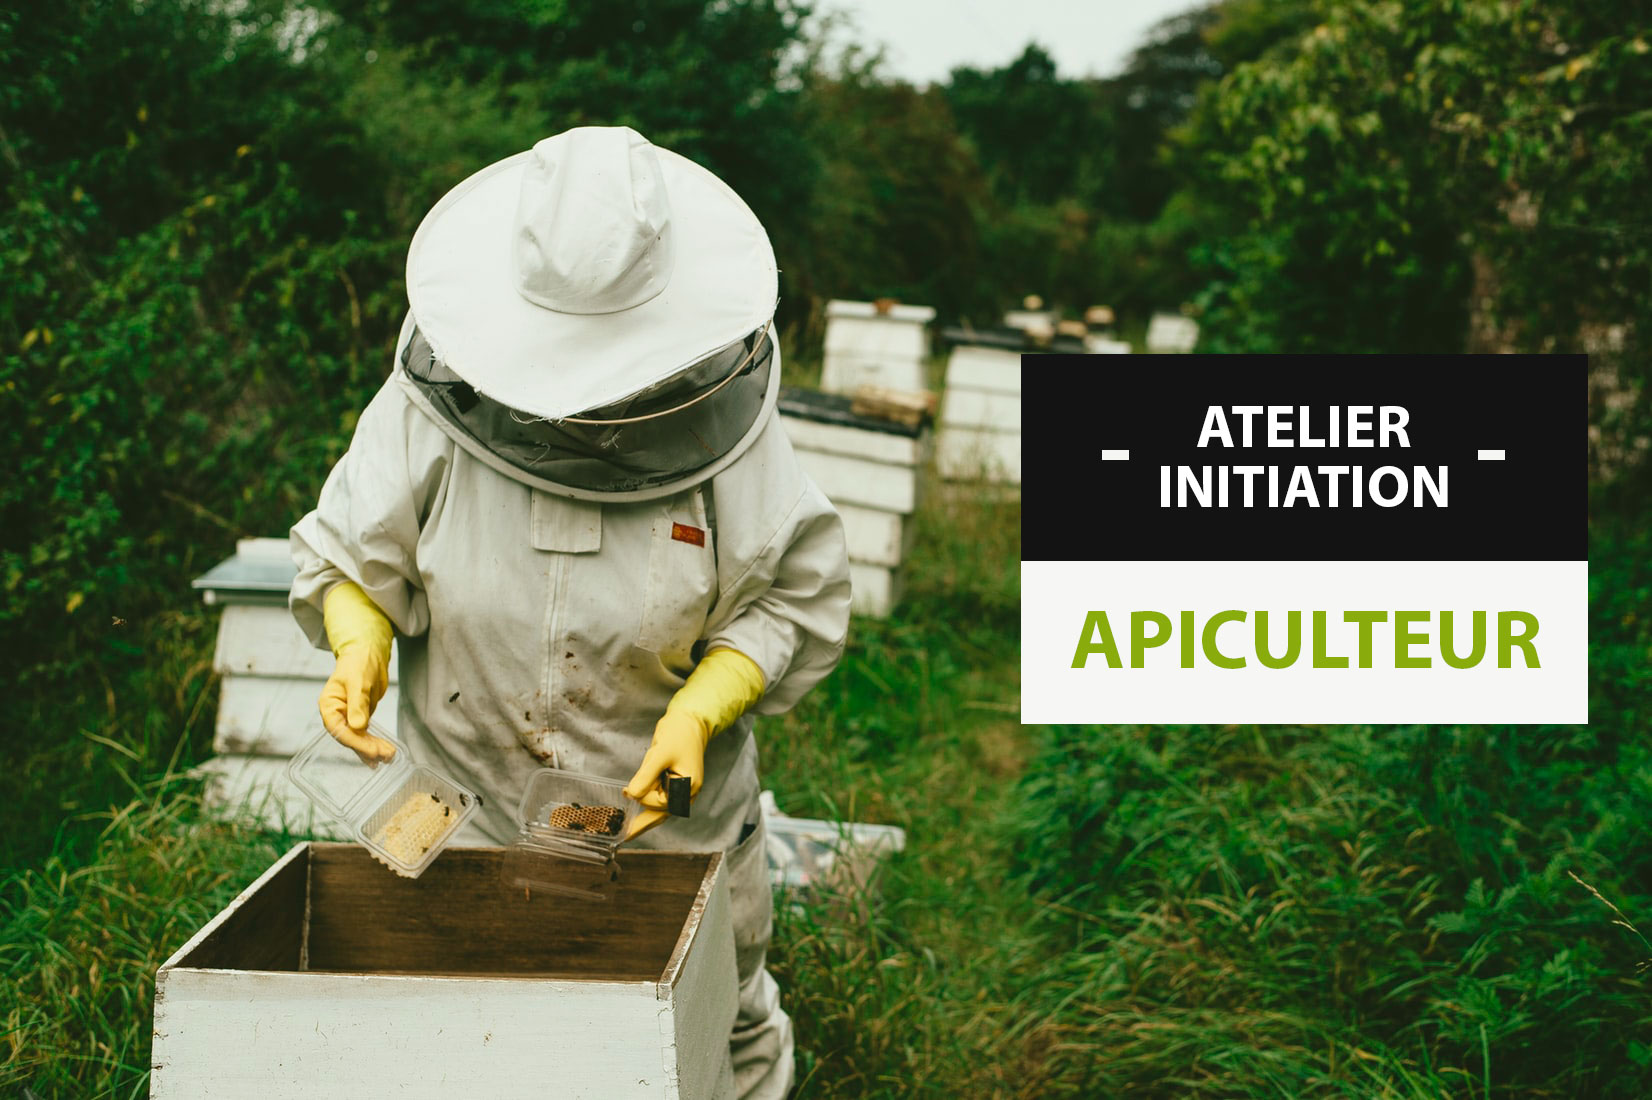
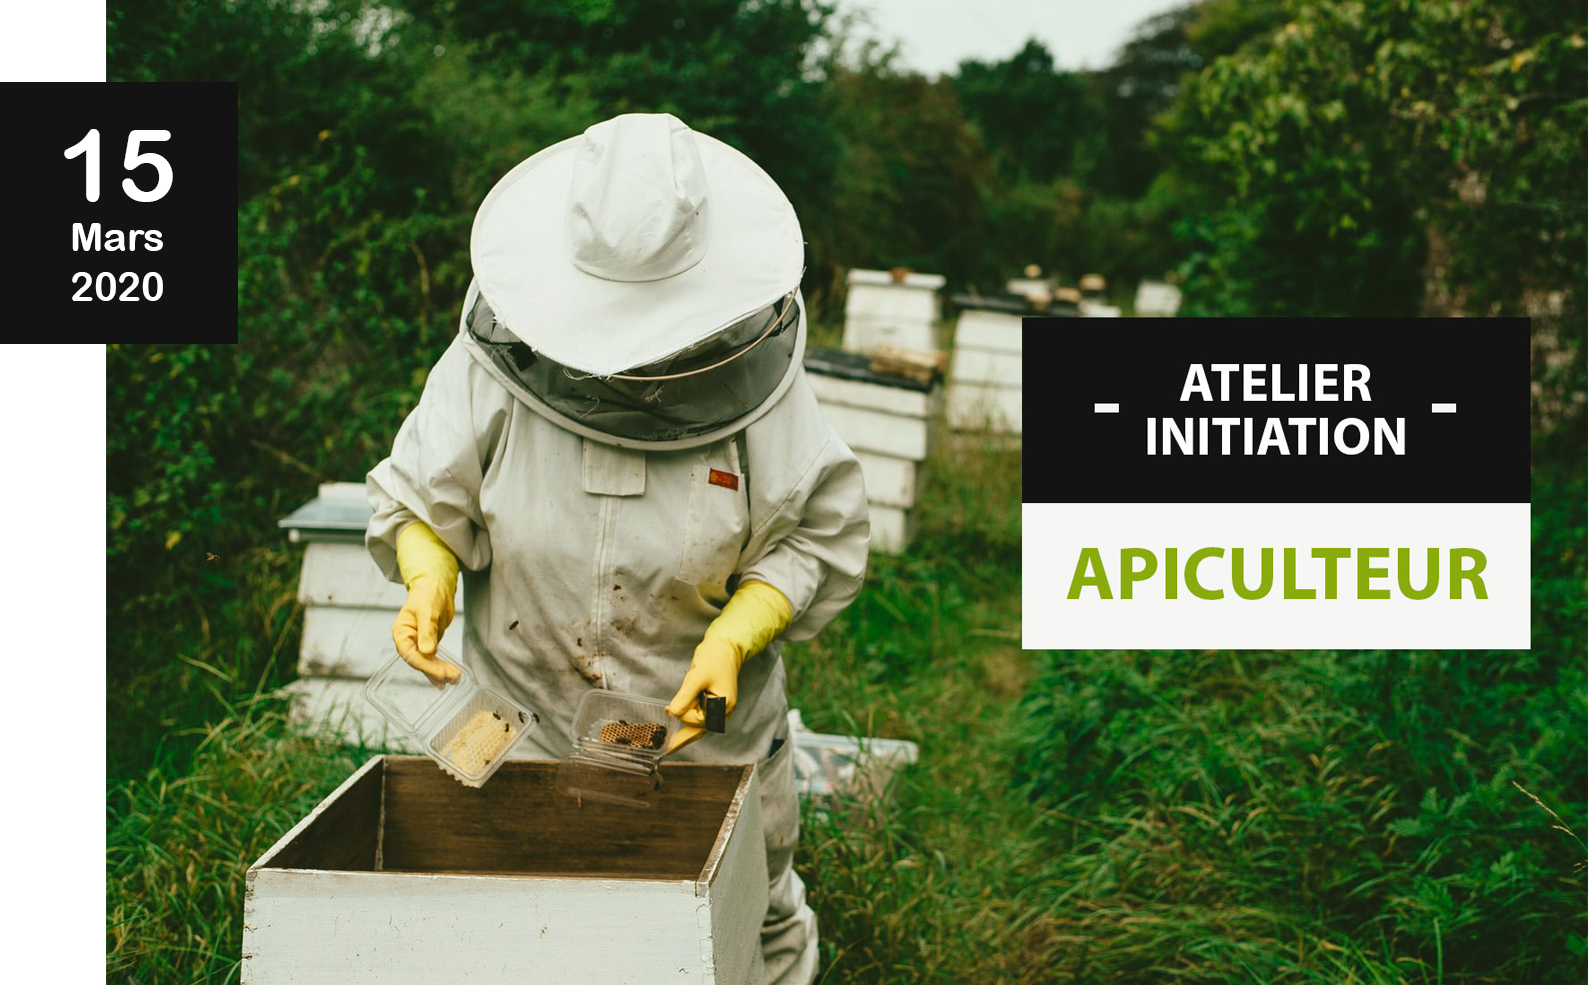
retouches

diff --git a/homepage.html b/homepage.html
@@ -114,11 +114,13 @@
     <div class="actu-container">
         <div class="left-section">
             <img width="500" src="Images/apiculteur.jpg" alt="photo atelier d'initiation apiculteur">
+            <!--
             <span class="date">
             <span class="date-chiffre">30</span><br/>
             <span class="date-mois">Mars</span><br/>
             <span class="date-annee">2020</span>
             </span>
+            -->
         </div>
         <div class='right-section'>
             <h3>À VENIR</h3>
@@ -139,7 +141,7 @@
 </section>
     <section class="contact" id="ContactUs">
         <h2>Contact</h2>
-        <p class="pcontact">Pour de plus amples informations, <br> vous pouvez nous contacter via ce formulaire.</p>
+        <p class="pcontact">Vous vous sentez l'âme d'un écologiste </br>et souhaitez suivre une formation dans le domaine ?<br>Prennez contact avec nous !</p>
         <div class="contact-container">
             <form id="contact_form" action="#" method="POST">
                 <input class="input" name="name" type="text" value="" placeholder="NOM" />

diff --git a/styles.css b/styles.css
@@ -273,7 +273,7 @@ span.date {
 
 .contact h2{
     margin: 0;
-    padding: 40px 0 20px 0;
+    padding: 40px 0 30px 0;
 }
 
 .contact-container {
@@ -283,6 +283,7 @@ span.date {
 
 .pcontact {
     text-align: center; 
+    margin-top:0;
 }
 
 form {
@@ -405,7 +406,7 @@ form textarea {
 	margin: 20px 0 12px;
 }
 .footer-bar .footer-links a:hover{
-    color: rgb(5, 190, 5);
+    color: #8DB54B;
     cursor: pointer;
 }
  
